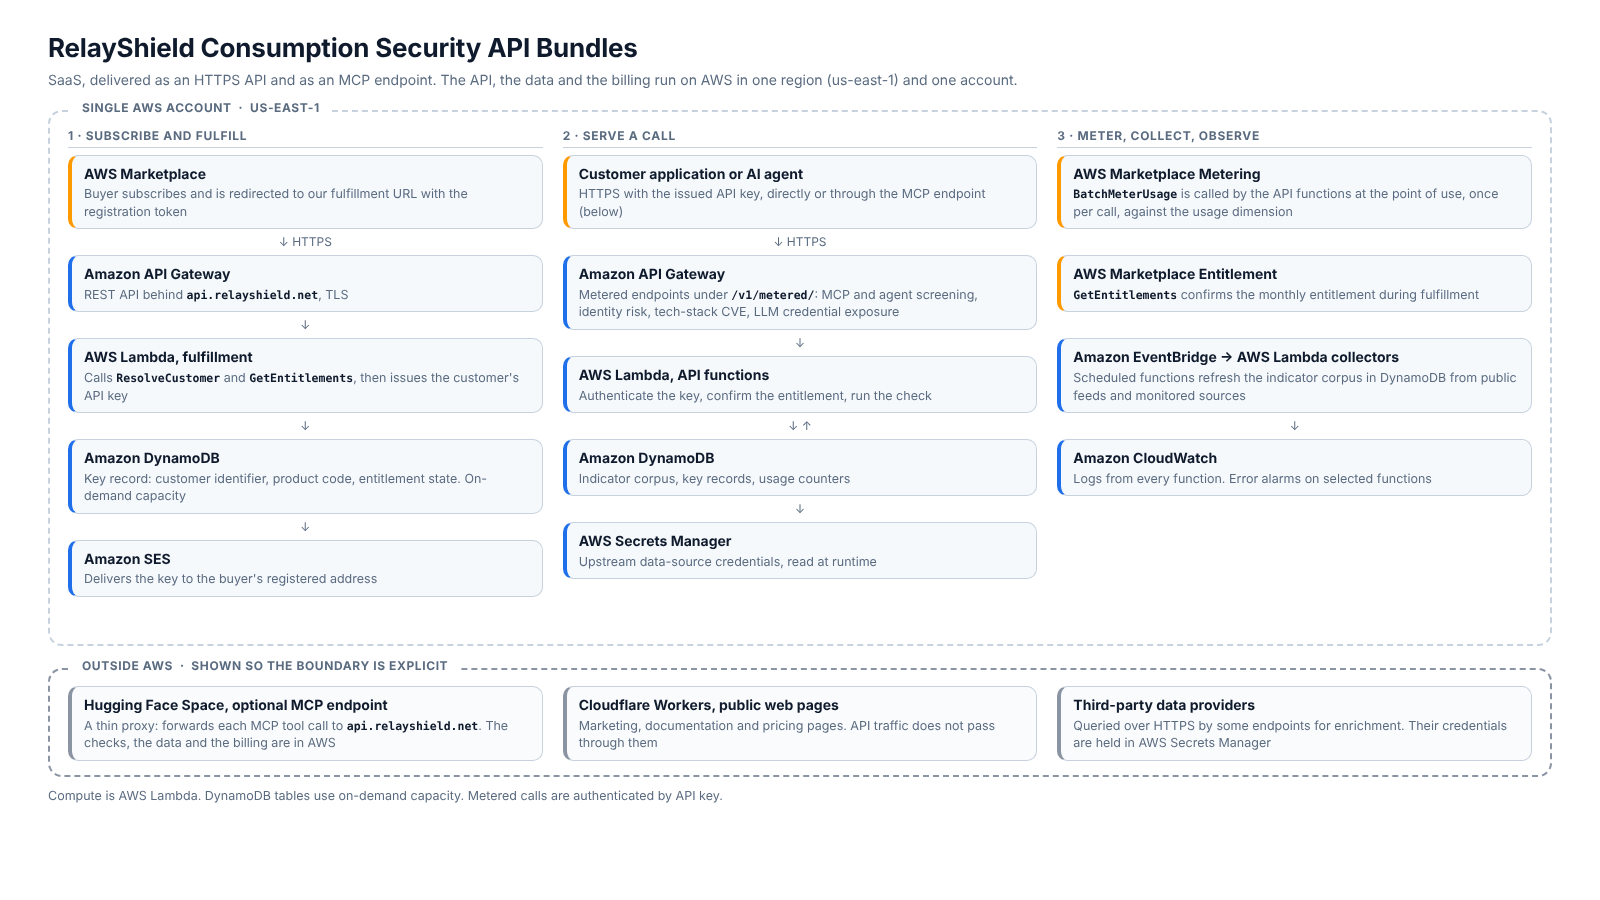
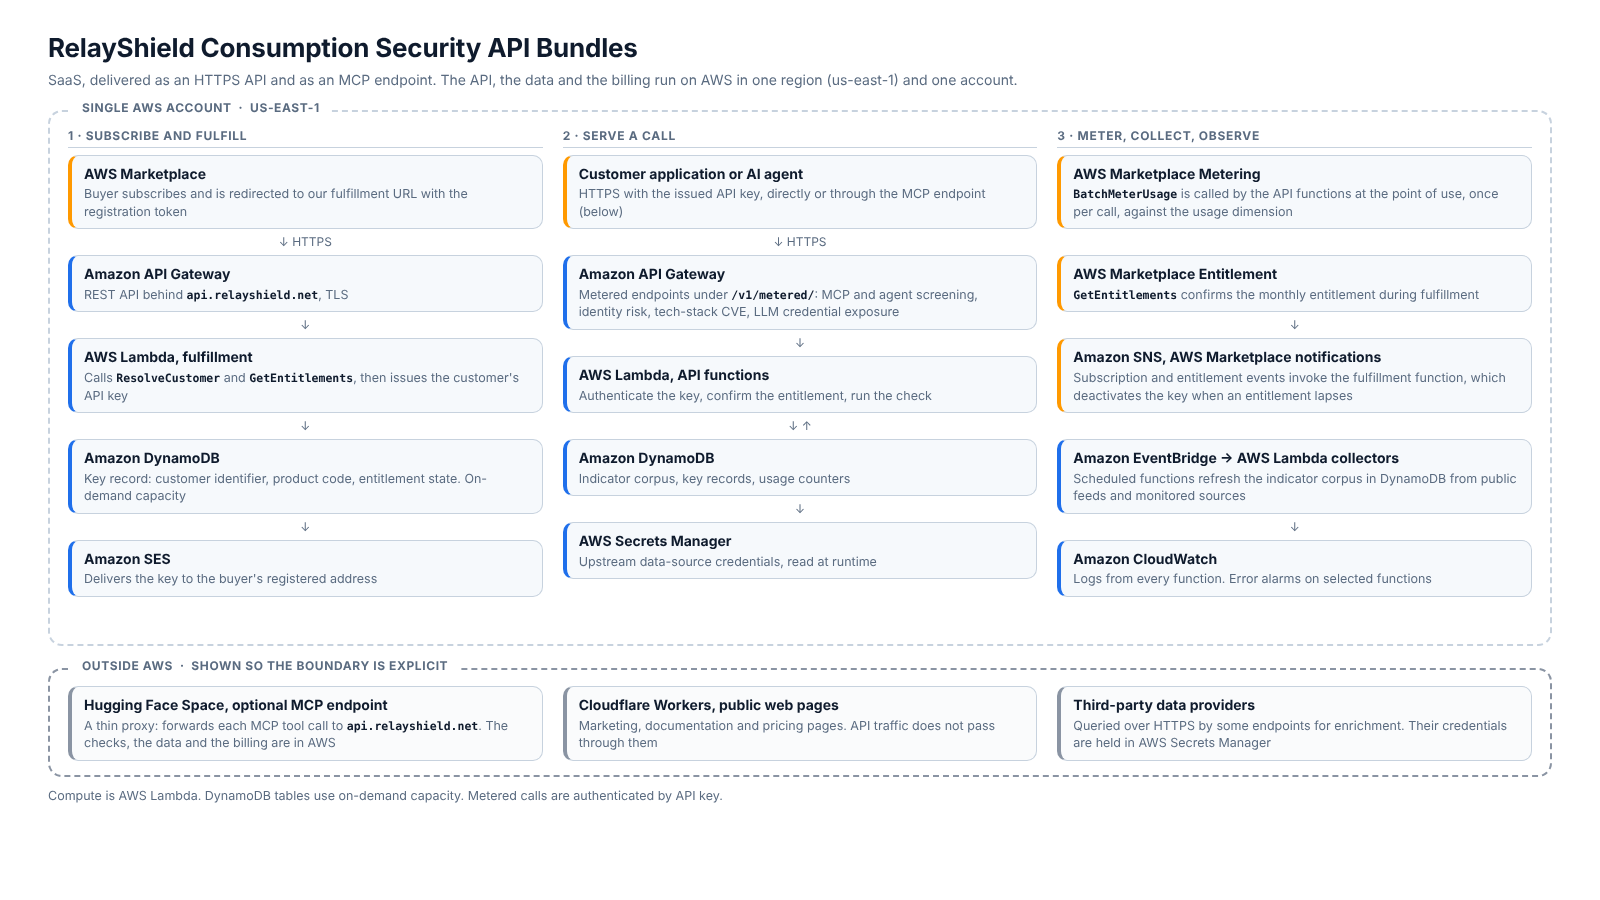
Add SNS to the FTR architecture diagram and record the four AWS reads
Andrew's aws sns list-subscriptions showed this product's subscription and entitlement topics
both invoke the fulfillment Lambda, so the box is real. Records concurrency 1000, budget 50,
12-hour SIM swap cadence, and that the unanswered WAFR question is in Reliability (12/13).

Claude-Session: https://claude.ai/code/session_01Tx1L2QAH4g3Q9BTXW1vcxL

Changed region(s): [[0.6562, 0.3733, 0.9375, 0.4667], [0.6562, 0.4978, 0.9375, 0.56], [0.6562, 0.5911, 0.875, 0.6533]]

diff --git a/assets/marketplace/consumption_security_architecture.html b/assets/marketplace/consumption_security_architecture.html
@@ -16,10 +16,10 @@
     MCP endpoint     hf-space-mcp-server/app.py (forwards to api.relayshield.net)
     edge             wrangler.commerce.toml: api.relayshield.net points directly to API Gateway
 
+  SNS is included because `aws sns list-subscriptions` (Andrew, 2026-10-18) showed this
+  product's subscription and entitlement topics both invoke the fulfillment Lambda.
+
   DELIBERATELY ABSENT, because they could not be verified:
-    * Amazon SNS. The fulfillment module says SNS events do not arrive until the
-      subscription is created with this product's real topic ARN. Add it only after
-      `aws sns list-subscriptions` shows it.
     * Any claim about per-function IAM roles, key types or log redaction. Dozens of
       Lambdas still share one role, and a reviewer will check.
     * Third-party vendor names (house rule for anything a customer reads), the AWS
@@ -93,6 +93,8 @@
     <div class="box aws"><b>AWS Marketplace Metering</b><span><code>BatchMeterUsage</code> is called by the API functions at the point of use, once per call, against the usage dimension</span></div>
     <div class="arrow">&nbsp;</div>
     <div class="box aws"><b>AWS Marketplace Entitlement</b><span><code>GetEntitlements</code> confirms the monthly entitlement during fulfillment</span></div>
+    <div class="arrow">&#8595;</div>
+    <div class="box aws"><b>Amazon SNS, AWS Marketplace notifications</b><span>Subscription and entitlement events invoke the fulfillment function, which deactivates the key when an entitlement lapses</span></div>
     <div class="arrow">&nbsp;</div>
     <div class="box rs"><b>Amazon EventBridge &rarr; AWS Lambda collectors</b><span>Scheduled functions refresh the indicator corpus in DynamoDB from public feeds and monitored sources</span></div>
     <div class="arrow">&#8595;</div>

diff --git a/docs/claude_memory/LOG_CURRENT.md b/docs/claude_memory/LOG_CURRENT.md
@@ -612,3 +612,19 @@ x401 `VERIFIER_NONCE_TABLE`, the Proof form and the Muse summary.
 
 **Unchanged and still open:** the root access key (ends `N2XZ`) deletion, due on or after 2026-10-16; API alarm; badge
 table; x401 `VERIFIER_NONCE_TABLE`, Proof form and Muse summary; CS Mobile v1.7.0 behind a missing JDK.
+
+### 2026-10-18 (later): Andrew's four reads, and the WAFR gap located
+
+* **Account Lambda concurrency: `1000`.** The approved increase is live, so the concurrency Notes in
+  `ftr_finish_2026-10-18.md` are true to paste.
+* **Budget `relayshield-monthly-cost`: USD 50.0.** It exists, so the COST 1 sentence is true. His target is USD 10 and
+  the limit is still 50: `AMOUNT=10 AWS_PROFILE=relayshield sh tools/create_cost_budget.sh --apply` lowers it.
+* **SIM swap schedule: `rate(12 hours)`**, confirmed from AWS.
+* **SNS: this product IS subscribed.** `aws sns list-subscriptions` returned six `lambda` subscriptions on topics owned by
+  AWS Marketplace (`aws-mp-subscription-notification-*` and `aws-mp-entitlement-notification-*`) for three product codes:
+  `46y72j0d99w7lyqkiqrakpc5k` (the Consumption Security API Bundles product, `prod-kkvurtspreofy`), `cvfvhwhmichl13kcuuutkbwmp`
+  (the Core Identity Exposure product) and `cmh79gzztkdtp0dlzbdepa643` (Attack Surface and Supply Chain). So the 09-17-era
+  worry that this product's SNS might not be wired was unfounded, and the diagram now carries the SNS box.
+* **WAFR: the unanswered question is in RELIABILITY (12/13).** Totals now: OPS 11/11, SEC 11/11, REL 12/13, PERF 5/5,
+  COST 11/11, SUS 6/6; 36 High and 15 Medium. The "Next risk to address: OPS 1" box on the overview is a pointer to the
+  next risk, not the gap. Its answer is in `wafr_answers_reliability_2026-10-11.md`.

diff --git a/ftr_finish_2026-10-18.md b/ftr_finish_2026-10-18.md
@@ -135,11 +135,8 @@ item you cannot answer, send me the item.
 `.html` beside it, so a correction is an edit and a re-render. It reaches the Mac through the merge,
 not through chat, which re-encodes images to `.webp` and an upload dialog then cannot select them.
 
-It names the product by its listing name, shows the Hugging Face MCP endpoint and Cloudflare as
-**outside AWS** rather than hiding them, and **deliberately omits** three things:
-* **Amazon SNS.** The fulfillment module says SNS events do not arrive until a subscription exists
-  with this product's real topic ARN, and nothing records that it does. If Andrew's read shows the
-  fulfillment function is subscribed, add the box and re-render.
+It includes Amazon SNS: Andrew's read on 2026-10-18 showed this product's subscription and entitlement topics both invoke the fulfillment function. It names the product by its listing name, shows the Hugging Face MCP endpoint and Cloudflare as
+**outside AWS** rather than hiding them, and **deliberately omits** two things:
 * **Any claim about per-function IAM roles, key types or log redaction.** Dozens of Lambdas still
   share one role, and some handlers log values readably.
 * **Vendor names, the account number and corpus counts.**
